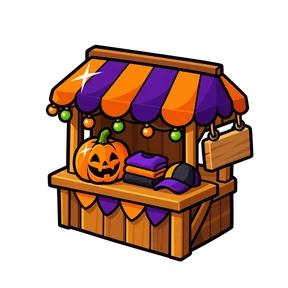
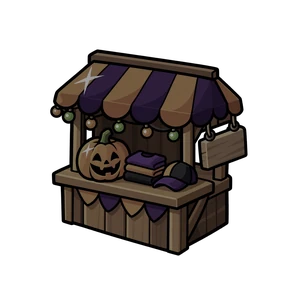
Panel round 4: no undo-less Remove without asking, exact book art on the pill, shut booth reads closed, round glow, draining Undo
- Remove of a title Undo cannot restore (lists failed, event titles) asks inside the sheet first (no second Modal)
- Pill art only for "<Book> Finder" titles by the whole book name (a "Night ..." stamp title never borrows Night Lights)
- Away headline falls back to "Event only" when the server sends no night window
- Booth glow re-exported with a round falloff (edge alpha 0, no square halo); the closed booth is dimmed and
  desaturated so it reads shut, with a 28 pt lock
- Undo bar: retry icon on UNDO and a bar that drains over the 10 s (still with Reduce Motion, pauses mid-request)

diff --git a/src/components/profile/TitleSheet.tsx b/src/components/profile/TitleSheet.tsx
@@ -53,11 +53,14 @@ export default function TitleSheet({ visible, title, onClose, onChanged, onRemov
   const [earned, setEarned] = useState<EarnedTitle[] | null>(null);
   const [busy, setBusy] = useState<string | null>(null);
   const [error, setError] = useState<string | null>(null);
+  /** Remove asked once for a title Undo cannot bring back. */
+  const [confirming, setConfirming] = useState(false);
 
   useEffect(() => {
     if (!visible) return;
     setMode(__DEV__ && process.env.EXPO_PUBLIC_PROFILE_PREVIEW_TITLE_SHEET === 'change' ? 'change' : 'about');
     setError(null);
+    setConfirming(false);
     let live = true;
     // Dev profile preview (offline): a fixture list so the sheet can be captured. Constant-folded out of release.
     if (__DEV__ && process.env.EXPO_PUBLIC_PROFILE_PREVIEW === '1') {
@@ -99,9 +102,13 @@ export default function TitleSheet({ visible, title, onClose, onChanged, onRemov
   const wear = (entry: EarnedTitle) => save(entry.key, () => equipEarned(entry));
   // stamp_id null clears whatever title is worn (users.equipped_title), from a book or a stamp.
   // Disabled until the lists load, so Undo always knows which endpoint wears the title again.
-  const remove = () => {
-    if (earned === null) return Promise.resolve();
+  const remove = async () => {
+    if (earned === null) return;
     const previous = findEarned(title, earned);
+    // No Undo without knowing where the title came from (lists failed, or an event title): ask first,
+    // inside this sheet (a second Modal over this one does not present on iOS).
+    if (!previous && !confirming) { setConfirming(true); return; }
+    setConfirming(false);
     return save('remove', () => equipStampTitle(null), () => onRemoved?.(previous));
   };
 
@@ -127,7 +134,17 @@ export default function TitleSheet({ visible, title, onClose, onChanged, onRemov
             Your title shows under your shark for everyone to see.
           </GameText>
           {!!error && <GameText preset="bodySmall" tone="onBlue" align="center" style={styles.error}>{error}</GameText>}
-          <View style={styles.actions}>
+          {confirming && (
+            <View style={styles.confirm} accessibilityLiveRegion="polite">
+              <GameText preset="bodySmall" tone="onBlue" align="center" style={styles.copy}>
+                There is no Undo for this one. You can wear it again from where you earned it.
+              </GameText>
+              <GameButton label="Remove it" variant="danger" tone="onBlue" size="compact" loading={busy === 'remove'} disabled={!!busy}
+                onPress={() => { void remove(); }} />
+              <GameButton label="Keep it" variant="ghost" tone="onBlue" size="compact" disabled={!!busy} onPress={() => setConfirming(false)} />
+            </View>
+          )}
+          <View style={[styles.actions, confirming && styles.hiddenActions]} pointerEvents={confirming ? 'none' : 'auto'}>
             <GameButton label="Change title" tone="onBlue" icon="swap" disabled={!!busy}
               onPress={() => setMode('change')} accessibilityHint="Shows the titles you have earned" />
             {!!worn && (
@@ -201,6 +218,8 @@ const styles = StyleSheet.create({
   wear: { backgroundColor: '#ffcf3b', borderRadius: 14, borderWidth: 2, borderColor: '#ffffff', borderBottomWidth: 4,
     borderBottomColor: '#d99a00', paddingHorizontal: 12, paddingVertical: 5, minHeight: 32, justifyContent: 'center' },
   wearText: { fontFamily: 'Shark', fontSize: 15, color: BRAND.navy, letterSpacing: 0.5 },
+  confirm: { alignSelf: 'stretch', gap: 4, backgroundColor: 'rgba(5,52,110,0.35)', borderRadius: 14, padding: 10 },
+  hiddenActions: { opacity: 0.3 },
   remove: { alignSelf: 'center', flexDirection: 'row', alignItems: 'center', gap: 6, paddingHorizontal: 14, minHeight: 44,
     minWidth: 160, justifyContent: 'center' },
   removeOff: { opacity: 0.45 },

diff --git a/src/components/profile/TitleUndoBar.tsx b/src/components/profile/TitleUndoBar.tsx
@@ -4,10 +4,11 @@
  * server (the endpoint that owns it), then the profile refreshes.
  */
 import { useEffect, useRef, useState } from 'react';
-import { Pressable, StyleSheet, Text, View } from 'react-native';
+import { Animated, Easing, Pressable, StyleSheet, Text, View } from 'react-native';
 import { haptic } from '../../gamekit/Haptics';
 import { playSfx } from '../../gamekit/SFX';
-import { BRAND } from '../../ui';
+import { BRAND, GameIcon } from '../../ui';
+import useReducedGameMotion from '../../hooks/useReducedGameMotion';
 import type { EarnedTitle } from './titleModel';
 
 /** Long enough for a kid to find the button (panel round 2). */
@@ -23,6 +24,17 @@ export default function TitleUndoBar({ previous, onUndo, onDone }: {
   const [busy, setBusy] = useState(false);
   const [failed, setFailed] = useState(false);
   const mounted = useRef(true);
+  const reduced = useReducedGameMotion();
+  // The time left, drained under the bar (a still full bar with Reduce Motion). Restarts with the timer.
+  const left = useRef(new Animated.Value(1)).current;
+  useEffect(() => {
+    if (!previous || busy) { left.stopAnimation(); return; }
+    left.setValue(1);
+    if (reduced) return;
+    const run = Animated.timing(left, { toValue: 0, duration: UNDO_MS, easing: Easing.linear, useNativeDriver: true });
+    run.start();
+    return () => run.stop();
+  }, [previous, busy, reduced, left]);
   useEffect(() => () => { mounted.current = false; }, []);
   useEffect(() => { setFailed(false); }, [previous]);
   // The timer only runs while no undo is in flight: it can never hide the bar mid-request
@@ -59,8 +71,12 @@ export default function TitleUndoBar({ previous, onUndo, onDone }: {
               if (mounted.current) setBusy(false);
             }
           }}>
+          <GameIcon name="retry" size={18} />
           <Text style={styles.undoText} maxFontSizeMultiplier={1.2}>{busy ? '...' : 'UNDO'}</Text>
         </Pressable>
+        <View style={styles.track} pointerEvents="none">
+          <Animated.View style={[styles.drain, { transform: [{ scaleX: left }] }]} />
+        </View>
       </View>
     </View>
   );
@@ -71,7 +87,10 @@ const styles = StyleSheet.create({
   bar: { flexDirection: 'row', alignItems: 'center', gap: 12, minHeight: 44, backgroundColor: BRAND.navy, borderRadius: 22,
     paddingLeft: 18, paddingRight: 6, borderWidth: 2, borderColor: '#ffffff' },
   text: { fontFamily: 'Knockout', fontSize: 17, color: '#ffffff' },
-  undo: { backgroundColor: '#ffcf3b', borderRadius: 16, paddingHorizontal: 14, minHeight: 32, justifyContent: 'center',
+  track: { position: 'absolute', left: 18, right: 18, bottom: 3, height: 3, borderRadius: 2, overflow: 'hidden',
+    backgroundColor: 'rgba(255,255,255,0.15)' },
+  drain: { flex: 1, backgroundColor: '#ffcf3b', transformOrigin: 'left' },
+  undo: { flexDirection: 'row', alignItems: 'center', gap: 4, backgroundColor: '#ffcf3b', borderRadius: 16, paddingHorizontal: 12, minHeight: 32, justifyContent: 'center',
     borderBottomWidth: 3, borderBottomColor: '#d99a00' },
   undoText: { fontFamily: 'Shark', fontSize: 15, color: BRAND.navy },
 });

diff --git a/src/components/map/fright/HalloweenStall.tsx b/src/components/map/fright/HalloweenStall.tsx
@@ -4,7 +4,7 @@
  * with its warm lantern glow baked into the art (no live shadow on a map marker), a LIMITED tag, and a night-palette name chip
  * ("Halloween Shop" over tonight's real hours: "Open till 2 AM").
  * Away (not at the event or outside event hours) is a deliberate locked look:
- * the solid booth without its glow, a small gold lock in its corner, the chip turns fog-grey and reads
+ * the booth shut (dimmed, desaturated art, no glow) with a gold lock on its corner, the chip turns fog-grey and reads
  * "Opens at 6:30 PM" or "Only at Fin-ister Nights". Plain RN views in a FIXED
  * box (a MarkerView size change re-adds the iOS annotation): only text and
  * opacity change, the tree and the box never do. No Skia, no vector icons.
@@ -37,7 +37,7 @@ export const HalloweenStall = memo(function HalloweenStall({ name, line, tag, op
         <Image source={BOOTH} style={[styles.booth, open ? null : styles.hidden]} contentFit="contain" cachePolicy="memory" />
         <Image source={BOOTH_CLOSED} style={[styles.booth, open ? styles.hidden : null]} contentFit="contain" cachePolicy="memory" />
       </View>
-      <View style={[styles.lock, open ? styles.hidden : null]}><GameIcon name="lock" size={20} /></View>
+      <View style={[styles.lock, open ? styles.hidden : null]}><GameIcon name="lock" size={28} /></View>
       <View style={[styles.tag, open ? null : styles.tagAway]}><Text style={styles.tagText} maxFontSizeMultiplier={1}>{tag}</Text></View>
       <View style={[styles.chip, open ? null : styles.chipAway]}>
         <Text style={[styles.name, open ? null : styles.nameAway]} numberOfLines={1} adjustsFontSizeToFit minimumFontScale={0.8}
@@ -53,7 +53,7 @@ const styles = StyleSheet.create({
   box: { width: STALL_BOX.w, height: STALL_BOX.h, alignItems: 'center' },
   boothBox: { width: BOOTH_PT, height: BOOTH_PT, marginTop: -8, marginBottom: -12 },
   booth: { position: 'absolute', width: BOOTH_PT, height: BOOTH_PT },
-  lock: { position: 'absolute', top: 58, left: STALL_BOX.w / 2 + 18 },
+  lock: { position: 'absolute', top: 50, left: STALL_BOX.w / 2 + 12 },
   hidden: { opacity: 0 },
   tag: {
     position: 'absolute', top: 0, right: 14, backgroundColor: NIGHT.candy, borderRadius: 8, borderWidth: 2, borderColor: NIGHT.ink,

diff --git a/src/components/profile/titleModel.ts b/src/components/profile/titleModel.ts
@@ -136,11 +136,13 @@ export function findEarned(title: string | null | undefined, earned: readonly Ea
 export const BADGE_BOOKS: readonly string[] = ['churro_collection', 'pretzel_collection', 'night_lights', 'rain_parade', 'camera_crew'];
 
 /**
- * The book a title names, from the title alone (no network): "Churro Finder" and "Churro Connoisseur" are the
- * Churro Collection, "Night Lights Finder" is Night Lights. Null when no bundled book matches (stamps, events).
+ * The book a starter title names, from the title alone (no network): "Churro Finder" is the Churro
+ * Collection, "Night Lights Finder" is Night Lights. Only "<Book> Finder" titles match, by the whole
+ * book name, so a stamp or event title that merely starts with "Night" never borrows a book's art.
  */
 export function titleBadgeSlug(title: string | null | undefined): string | null {
-  const first = clean(title).split(/\s+/)[0]?.toLowerCase() ?? '';
-  if (first.length < 3) return null;
-  return BADGE_BOOKS.find(slug => slug.split('_')[0] === first) ?? null;
+  const match = /^(.+?)\s+Finder$/i.exec(clean(title));
+  if (!match) return null;
+  const base = match[1].trim().toLowerCase().replace(/\s+/g, '_');
+  return BADGE_BOOKS.find(slug => slug === base || slug === `${base}_collection`) ?? null;
 }

diff --git a/src/components/fright/halloweenShop.ts b/src/components/fright/halloweenShop.ts
@@ -89,7 +89,9 @@ export function awayMessage(reason: string | null | undefined, night?: NightLike
 export function awayHeadline(reason: string | null | undefined, night: NightLike, nowMs: number): string {
   if (reason === 'off_season') return 'Closed for the season';
   if (reason === 'not_event_hours') {
-    if (night?.closes_at && nowMs >= Date.parse(night.closes_at)) return 'Closed for tonight';
+    // Without tonight's window there is nothing true to promise: no "Opens tonight".
+    if (!night?.closes_at) return 'Event only';
+    if (nowMs >= Date.parse(night.closes_at)) return 'Closed for tonight';
     return 'Opens tonight';
   }
   return 'Event only';
